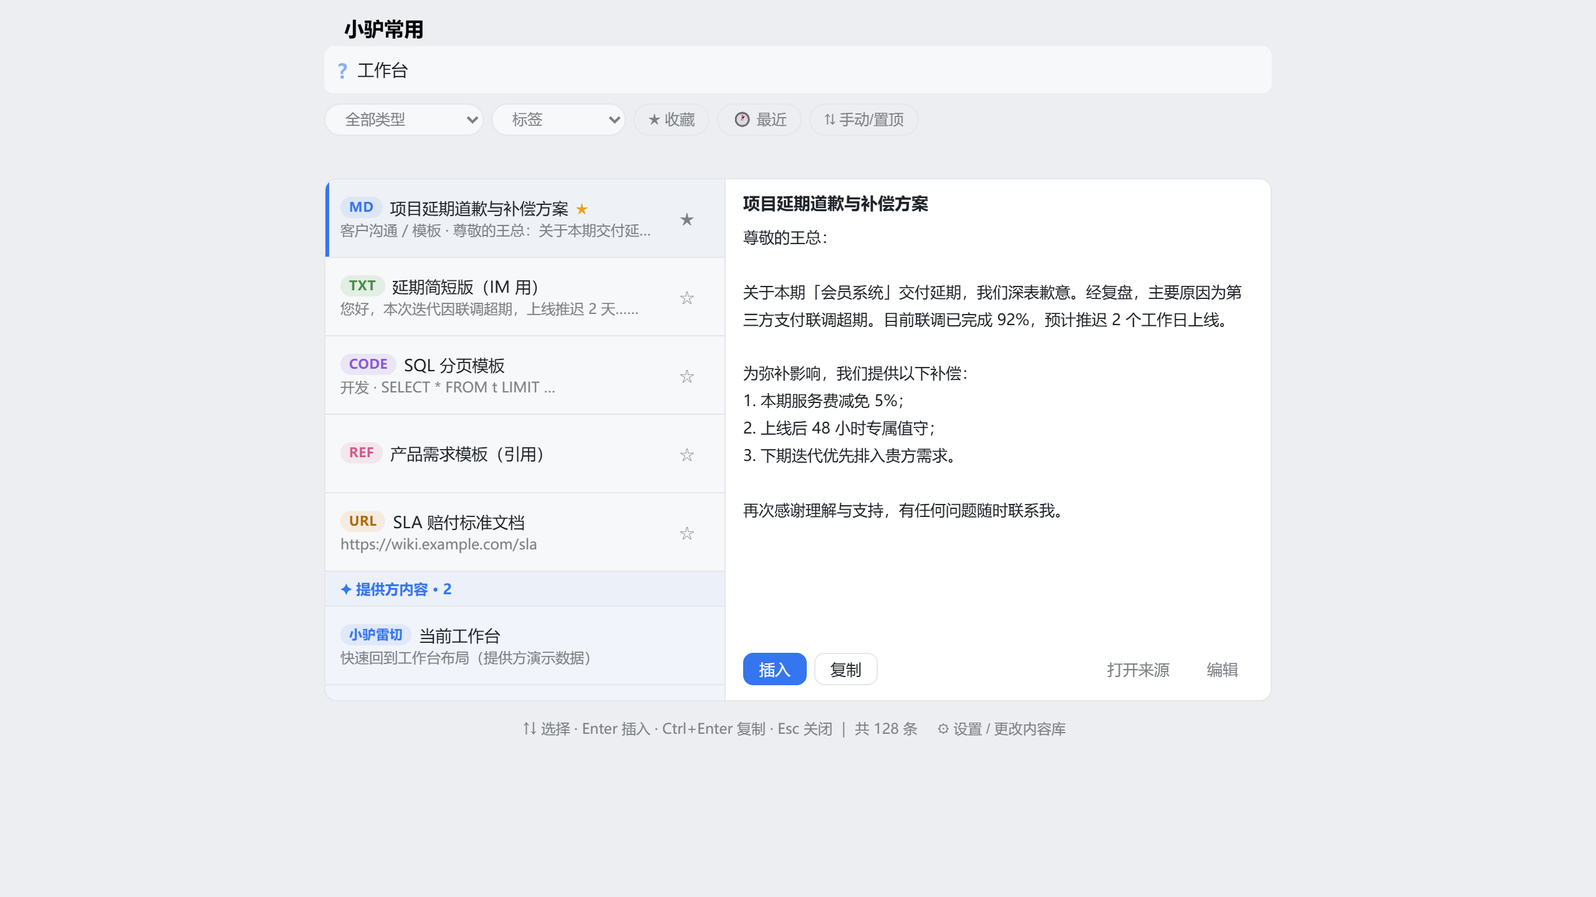
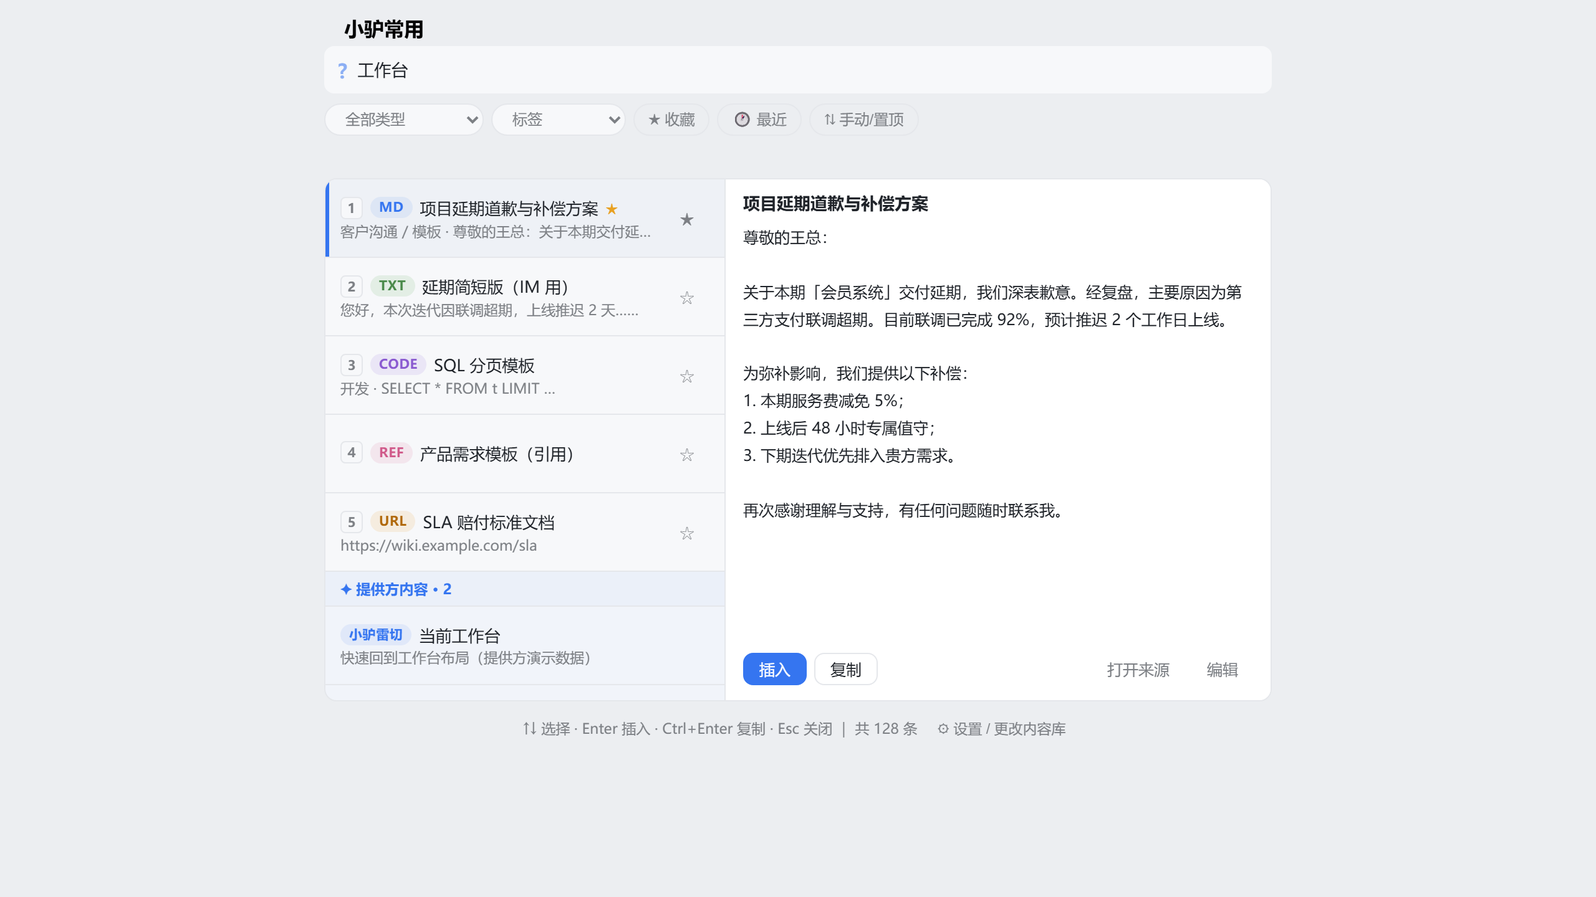
R10：生产 UI 冒烟门禁（13 项 DOM 断言+截图，test:ui）
- render-production.cjs：断言失败非零退出；覆盖双栏预览/徽标/失效警示/
  AI 横幅/序号角标/提供方分区/设置入口/窄容器单列
- 本地面评估落账：不依赖 B-001/B-002 的功能面已基本清空，转维护基调
- 测试 114/114

diff --git a/docs/design/harness.html b/docs/design/harness.html
@@ -24,7 +24,7 @@ body { margin: 0; background: #eceef1; }
 .b3-text-field { border: none; background: transparent; color: var(--b3-theme-on-background); outline: none; font-family: inherit; }
 .xlc-dialog { position: relative; }
 .xlc-dialog .xlc-menu { position: fixed; right: 180px; bottom: 120px; left: auto; width: 320px; }
-</style><style>.xlc-dialog{--xlc-radius: 10px;--xlc-badge-text: #4a8a4a;--xlc-badge-text-bg: rgba(94, 168, 94, .13);--xlc-badge-md: var(--b3-theme-primary);--xlc-badge-md-bg: rgba(53, 117, 240, .09);--xlc-badge-url: #b0680a;--xlc-badge-url-bg: rgba(232, 152, 45, .13);--xlc-badge-code: #8a5ad0;--xlc-badge-code-bg: rgba(150, 105, 224, .13);--xlc-badge-image: #3a9ab5;--xlc-badge-image-bg: rgba(80, 175, 200, .13);--xlc-badge-file: #8a8a93;--xlc-badge-file-bg: rgba(140, 140, 150, .14);--xlc-badge-ref: #d05a8a;--xlc-badge-ref-bg: rgba(220, 110, 155, .13);--xlc-badge-warn: #c2503a;--xlc-badge-warn-bg: rgba(226, 106, 80, .12);display:flex;flex-direction:column;height:100%;gap:8px;color:var(--b3-theme-on-background)}.xlc-dialog .xlc-top{display:flex}.xlc-dialog .xlc-search{flex:1;display:flex;align-items:center;gap:8px;background-color:var(--b3-theme-surface);border:1.5px solid rgba(0,0,0,0);border-radius:8px;padding:0 10px;height:36px}.xlc-dialog .xlc-search:focus-within{border-color:var(--b3-theme-primary);background-color:var(--b3-theme-background)}.xlc-dialog .xlc-search:focus-within .xlc-search-q{opacity:1}.xlc-dialog .xlc-search .xlc-search-q{color:var(--b3-theme-primary);font-weight:600;opacity:.55;user-select:none}.xlc-dialog .xlc-search .xlc-search-input{flex:1;border:none;background:rgba(0,0,0,0);box-shadow:none;padding:0;height:auto;font-size:13.5px}.xlc-dialog .xlc-filters{display:flex;gap:6px;align-items:center;flex-wrap:wrap}.xlc-dialog .xlc-filters .b3-select{max-width:128px;border-radius:999px;padding:2px 26px 2px 12px;height:26px;font-size:12px;color:var(--b3-theme-on-surface)}.xlc-dialog .xlc-chip{border:1px solid var(--b3-border-color);background:rgba(0,0,0,0);color:var(--b3-theme-on-surface);border-radius:999px;padding:2px 11px;font-size:12px;line-height:20px;min-height:26px;cursor:pointer}.xlc-dialog .xlc-chip:hover{border-color:var(--b3-theme-primary-light)}.xlc-dialog .xlc-chip--on{background-color:var(--b3-theme-primary-lighter);border-color:rgba(0,0,0,0);color:var(--b3-theme-primary);font-weight:600}.xlc-dialog .xlc-ai-banner{align-self:flex-start;border:1px dashed var(--b3-theme-primary-light);color:var(--b3-theme-primary);background-color:rgba(53,117,240,.07)}.xlc-dialog .xlc-doclist{display:flex;flex-direction:column;gap:2px;max-height:180px;overflow:auto}.xlc-dialog .xlc-doclist .xlc-doclist-item{text-align:left;border:none;background:rgba(0,0,0,0);color:var(--b3-theme-on-background);font-size:12.5px;padding:6px 10px;min-height:32px;border-radius:6px;cursor:pointer;overflow:hidden;text-overflow:ellipsis;white-space:nowrap}.xlc-dialog .xlc-doclist .xlc-doclist-item:hover{background-color:var(--b3-list-hover)}.xlc-dialog .xlc-doclist .xlc-doclist-item--on{background-color:var(--b3-theme-primary-lighter);color:var(--b3-theme-primary);font-weight:600}.xlc-dialog .xlc-doclist .xlc-doclist-empty{font-size:12px;color:var(--b3-theme-on-surface);padding:6px 10px}.xlc-dialog .xlc-status{min-height:18px;font-size:12px;color:var(--b3-theme-on-surface)}.xlc-dialog .xlc-body{flex:1;display:flex;min-height:0;border:1px solid var(--b3-border-color);border-radius:var(--xlc-radius);background-color:var(--b3-theme-surface);overflow:hidden}.xlc-dialog .xlc-list{width:320px;flex-shrink:0;overflow:auto;border-right:1px solid var(--b3-border-color)}.xlc-dialog .xlc-row{display:flex;align-items:center;gap:8px;padding:9px 12px;min-height:44px;cursor:pointer;border-bottom:1px solid var(--b3-border-color)}.xlc-dialog .xlc-row:last-child{border-bottom:none}.xlc-dialog .xlc-row:hover{background-color:var(--b3-list-hover)}.xlc-dialog .xlc-row--active{background-color:var(--b3-list-hover);box-shadow:inset 3px 0 0 var(--b3-theme-primary)}.xlc-dialog .xlc-row .xlc-row-main{flex:1;min-width:0}.xlc-dialog .xlc-row .xlc-row-title{display:flex;align-items:center;gap:6px;font-size:13px;font-weight:500;margin-bottom:2px;overflow:hidden}.xlc-dialog .xlc-row .xlc-row-titletext{overflow:hidden;text-overflow:ellipsis;white-space:nowrap;color:var(--b3-theme-on-background)}.xlc-dialog .xlc-row .xlc-row-favmark{color:#e8a020;font-size:12px;flex-shrink:0}.xlc-dialog .xlc-row .xlc-row-meta{font-size:11.5px;color:var(--b3-theme-on-surface);overflow:hidden;text-overflow:ellipsis;white-space:nowrap}.xlc-dialog .xlc-row .xlc-row-action{min-width:36px;min-height:36px;flex-shrink:0;border:none;background:rgba(0,0,0,0);color:var(--b3-theme-on-surface);font-size:14px}.xlc-dialog .xlc-badge{display:inline-block;font-size:10.5px;font-weight:600;padding:0 7px;border-radius:999px;line-height:17px;letter-spacing:.3px;flex-shrink:0}.xlc-dialog .xlc-badge--text{color:var(--xlc-badge-text);background-color:var(--xlc-badge-text-bg)}.xlc-dialog .xlc-badge--markdown{color:var(--xlc-badge-md);background-color:var(--xlc-badge-md-bg)}.xlc-dialog .xlc-badge--url{color:var(--xlc-badge-url);background-color:var(--xlc-badge-url-bg)}.xlc-dialog .xlc-badge--code{color:var(--xlc-badge-code);background-color:var(--xlc-badge-code-bg)}.xlc-dialog .xlc-badge--image{color:var(--xlc-badge-image);background-color:var(--xlc-badge-image-bg)}.xlc-dialog .xlc-badge--asset{color:var(--xlc-badge-file);background-color:var(--xlc-badge-file-bg)}.xlc-dialog .xlc-badge--blockref{color:var(--xlc-badge-ref);background-color:var(--xlc-badge-ref-bg)}.xlc-dialog .xlc-badge--structure{color:var(--xlc-badge-md);background-color:var(--xlc-badge-md-bg)}.xlc-dialog .xlc-badge--warn{color:var(--xlc-badge-warn);background-color:var(--xlc-badge-warn-bg)}.xlc-dialog .xlc-badge--ai{color:var(--b3-theme-primary);background-color:rgba(53,117,240,.09)}.xlc-dialog .xlc-pane{flex:1;display:flex;flex-direction:column;min-width:0;background-color:var(--b3-theme-background)}.xlc-dialog .xlc-pane-head{display:flex;align-items:center;gap:8px;padding:10px 14px 4px}.xlc-dialog .xlc-pane-head .xlc-pane-title{font-weight:600;font-size:13.5px;overflow:hidden;text-overflow:ellipsis;white-space:nowrap}.xlc-dialog .xlc-pane-warn{margin:4px 14px 6px;padding:6px 10px;border-radius:6px;font-size:12px;color:var(--xlc-badge-warn);background-color:var(--xlc-badge-warn-bg)}.xlc-dialog .xlc-pane-body{flex:1;overflow:auto;padding:4px 14px;font-size:12.5px;line-height:1.75;white-space:pre-wrap;word-break:break-word;color:var(--b3-theme-on-background)}.xlc-dialog .xlc-pane-foot{display:flex;gap:6px;padding:8px 14px 12px;flex-wrap:wrap}.xlc-dialog .xlc-pane-foot .xlc-foot-spacer{flex:1}.xlc-dialog .xlc-pane-foot .xlc-btn-primary{background-color:var(--b3-theme-primary);border-color:var(--b3-theme-primary);color:var(--b3-theme-on-primary)}.xlc-dialog .xlc-pane-foot .xlc-btn-ghost{border:none;background:rgba(0,0,0,0);color:var(--b3-theme-on-surface)}.xlc-dialog .xlc-provider-header{padding:6px 12px;font-size:11.5px;font-weight:600;color:var(--b3-theme-primary);background-color:rgba(53,117,240,.06);border-bottom:1px solid var(--b3-border-color);position:sticky;top:0}.xlc-dialog .xlc-row--provider{background-color:rgba(53,117,240,.03)}.xlc-dialog .xlc-footer{font-size:11.5px;color:var(--b3-theme-on-surface);text-align:center;display:flex;align-items:center;justify-content:center;gap:10px}.xlc-dialog .xlc-footer .xlc-footer-gear{border:none;background:rgba(0,0,0,0);color:var(--b3-theme-on-surface);font-size:11.5px;padding:2px 6px;min-height:26px}.xlc-dialog .xlc-menu{position:absolute;inset:auto 16px 16px 16px;z-index:10;display:flex;flex-direction:column;background-color:var(--b3-menu-background);border:1px solid var(--b3-border-color);border-radius:12px;box-shadow:var(--b3-dialog-shadow);overflow:auto;max-height:72%}.xlc-dialog .xlc-menu .xlc-menu-lbl{font-size:11px;color:var(--b3-theme-on-surface);padding:10px 12px 2px}.xlc-dialog .xlc-menu .xlc-menu-preview{margin:8px;padding:8px 10px;max-height:150px;overflow:auto;font-size:12px;line-height:1.7;font-family:inherit;color:var(--b3-theme-on-background);background-color:var(--b3-theme-surface);border:1px solid var(--b3-border-color);border-radius:8px;white-space:pre-wrap;word-break:break-all}.xlc-dialog .xlc-menu .xlc-menu-sec{padding:4px 8px 6px;border-bottom:1px solid var(--b3-border-color);display:flex;flex-wrap:wrap;gap:2px}.xlc-dialog .xlc-menu .xlc-menu-sec:last-child{border-bottom:none}.xlc-dialog .xlc-menu .xlc-menu-sec--ai{background-color:rgba(53,117,240,.04)}.xlc-dialog .xlc-menu .xlc-menu-item{text-align:left;min-height:36px;width:100%;background:rgba(0,0,0,0);border:none;border-radius:7px;color:var(--b3-theme-on-background);padding:6px 10px;font-size:13px;cursor:pointer}.xlc-dialog .xlc-menu .xlc-menu-item:hover{background-color:var(--b3-list-hover)}.xlc-dialog .xlc-menu .xlc-menu-item--ai{color:var(--b3-theme-primary)}@media(max-width: 620px){.xlc-dialog:not(.xlc-dialog--mobile) .xlc-list{width:100%;border-right:none}.xlc-dialog:not(.xlc-dialog--mobile) .xlc-pane{display:none}}.xlc-dialog--mobile .xlc-menu{inset:auto 0 0 0;border-radius:16px 16px 0 0;padding-bottom:env(safe-area-inset-bottom, 0);max-height:78%}.xlc-dialog--mobile .xlc-body{border:none;background:rgba(0,0,0,0)}.xlc-dialog--mobile .xlc-list{width:100%;border-right:none;border:1px solid var(--b3-border-color);border-radius:var(--xlc-radius)}.b3-dialog__container.xlc-sheet{position:fixed;left:0;right:0;bottom:0;top:auto !important;margin-bottom:0;border-radius:16px 16px 0 0;transform:none !important;padding-bottom:env(safe-area-inset-bottom, 0)}.xlc-form{display:flex;flex-direction:column;gap:10px}.xlc-form .xlc-form-field{display:flex;flex-direction:column;gap:4px}.xlc-form .xlc-form-field .xlc-form-label{font-size:12px;color:var(--b3-theme-on-surface)}.xlc-form .xlc-form-field .xlc-form-label .xlc-form-ai{color:var(--b3-theme-primary);cursor:pointer;border:none;background:rgba(0,0,0,0);font-size:12px;padding:0 0 0 6px}.xlc-form .xlc-form-field .xlc-form-label .xlc-form-ai:hover{text-decoration:underline}.xlc-form .xlc-form-field .xlc-form-hint{font-size:11px;color:var(--b3-theme-on-surface)}.xlc-form .xlc-sugrow{display:flex;gap:6px;align-items:center;font-size:12px;color:var(--b3-theme-primary);background-color:rgba(53,117,240,.07);border:1px dashed var(--b3-theme-primary-light);border-radius:8px;padding:6px 10px}.xlc-form .xlc-sugrow .xlc-sugrow-adopt{margin-left:auto;border:1px solid var(--b3-theme-primary-light);color:var(--b3-theme-primary);background:rgba(0,0,0,0);border-radius:6px;padding:2px 10px;font-size:12px;cursor:pointer}.xlc-form .xlc-form-actions{display:flex;justify-content:flex-end;gap:8px}.xlc-setting-row{display:flex;align-items:flex-start;gap:8px;font-size:12.5px;color:var(--b3-theme-on-background)}.xlc-setting-row input[type=checkbox]{margin-top:2px;flex-shrink:0}
+</style><style>.xlc-dialog{--xlc-radius: 10px;--xlc-badge-text: #4a8a4a;--xlc-badge-text-bg: rgba(94, 168, 94, .13);--xlc-badge-md: var(--b3-theme-primary);--xlc-badge-md-bg: rgba(53, 117, 240, .09);--xlc-badge-url: #b0680a;--xlc-badge-url-bg: rgba(232, 152, 45, .13);--xlc-badge-code: #8a5ad0;--xlc-badge-code-bg: rgba(150, 105, 224, .13);--xlc-badge-image: #3a9ab5;--xlc-badge-image-bg: rgba(80, 175, 200, .13);--xlc-badge-file: #8a8a93;--xlc-badge-file-bg: rgba(140, 140, 150, .14);--xlc-badge-ref: #d05a8a;--xlc-badge-ref-bg: rgba(220, 110, 155, .13);--xlc-badge-warn: #c2503a;--xlc-badge-warn-bg: rgba(226, 106, 80, .12);display:flex;flex-direction:column;height:100%;gap:8px;color:var(--b3-theme-on-background)}.xlc-dialog .xlc-top{display:flex}.xlc-dialog .xlc-search{flex:1;display:flex;align-items:center;gap:8px;background-color:var(--b3-theme-surface);border:1.5px solid rgba(0,0,0,0);border-radius:8px;padding:0 10px;height:36px}.xlc-dialog .xlc-search:focus-within{border-color:var(--b3-theme-primary);background-color:var(--b3-theme-background)}.xlc-dialog .xlc-search:focus-within .xlc-search-q{opacity:1}.xlc-dialog .xlc-search .xlc-search-q{color:var(--b3-theme-primary);font-weight:600;opacity:.55;user-select:none}.xlc-dialog .xlc-search .xlc-search-input{flex:1;border:none;background:rgba(0,0,0,0);box-shadow:none;padding:0;height:auto;font-size:13.5px}.xlc-dialog .xlc-filters{display:flex;gap:6px;align-items:center;flex-wrap:wrap}.xlc-dialog .xlc-filters .b3-select{max-width:128px;border-radius:999px;padding:2px 26px 2px 12px;height:26px;font-size:12px;color:var(--b3-theme-on-surface)}.xlc-dialog .xlc-chip{border:1px solid var(--b3-border-color);background:rgba(0,0,0,0);color:var(--b3-theme-on-surface);border-radius:999px;padding:2px 11px;font-size:12px;line-height:20px;min-height:26px;cursor:pointer}.xlc-dialog .xlc-chip:hover{border-color:var(--b3-theme-primary-light)}.xlc-dialog .xlc-chip--on{background-color:var(--b3-theme-primary-lighter);border-color:rgba(0,0,0,0);color:var(--b3-theme-primary);font-weight:600}.xlc-dialog .xlc-ai-banner{align-self:flex-start;border:1px dashed var(--b3-theme-primary-light);color:var(--b3-theme-primary);background-color:rgba(53,117,240,.07)}.xlc-dialog .xlc-doclist{display:flex;flex-direction:column;gap:2px;max-height:180px;overflow:auto}.xlc-dialog .xlc-doclist .xlc-doclist-item{text-align:left;border:none;background:rgba(0,0,0,0);color:var(--b3-theme-on-background);font-size:12.5px;padding:6px 10px;min-height:32px;border-radius:6px;cursor:pointer;overflow:hidden;text-overflow:ellipsis;white-space:nowrap}.xlc-dialog .xlc-doclist .xlc-doclist-item:hover{background-color:var(--b3-list-hover)}.xlc-dialog .xlc-doclist .xlc-doclist-item--on{background-color:var(--b3-theme-primary-lighter);color:var(--b3-theme-primary);font-weight:600}.xlc-dialog .xlc-doclist .xlc-doclist-empty{font-size:12px;color:var(--b3-theme-on-surface);padding:6px 10px}.xlc-dialog .xlc-status{min-height:18px;font-size:12px;color:var(--b3-theme-on-surface)}.xlc-dialog .xlc-body{flex:1;display:flex;min-height:0;border:1px solid var(--b3-border-color);border-radius:var(--xlc-radius);background-color:var(--b3-theme-surface);overflow:hidden}.xlc-dialog .xlc-list{width:320px;flex-shrink:0;overflow:auto;border-right:1px solid var(--b3-border-color)}.xlc-dialog .xlc-row{display:flex;align-items:center;gap:8px;padding:9px 12px;min-height:44px;cursor:pointer;border-bottom:1px solid var(--b3-border-color)}.xlc-dialog .xlc-row:last-child{border-bottom:none}.xlc-dialog .xlc-row:hover{background-color:var(--b3-list-hover)}.xlc-dialog .xlc-row--active{background-color:var(--b3-list-hover);box-shadow:inset 3px 0 0 var(--b3-theme-primary)}.xlc-dialog .xlc-row .xlc-row-main{flex:1;min-width:0}.xlc-dialog .xlc-row .xlc-row-title{display:flex;align-items:center;gap:6px;font-size:13px;font-weight:500;margin-bottom:2px;overflow:hidden}.xlc-dialog .xlc-row .xlc-row-titletext{overflow:hidden;text-overflow:ellipsis;white-space:nowrap;color:var(--b3-theme-on-background)}.xlc-dialog .xlc-row .xlc-row-favmark{color:#e8a020;font-size:12px;flex-shrink:0}.xlc-dialog .xlc-row .xlc-row-ordinal{display:inline-flex;align-items:center;justify-content:center;width:16px;height:16px;border-radius:4px;font-size:10.5px;font-weight:600;color:var(--b3-theme-on-surface);background-color:var(--b3-theme-surface);border:1px solid var(--b3-border-color);flex-shrink:0}.xlc-dialog .xlc-row .xlc-row-meta{font-size:11.5px;color:var(--b3-theme-on-surface);overflow:hidden;text-overflow:ellipsis;white-space:nowrap}.xlc-dialog .xlc-row .xlc-row-action{min-width:36px;min-height:36px;flex-shrink:0;border:none;background:rgba(0,0,0,0);color:var(--b3-theme-on-surface);font-size:14px}.xlc-dialog .xlc-badge{display:inline-block;font-size:10.5px;font-weight:600;padding:0 7px;border-radius:999px;line-height:17px;letter-spacing:.3px;flex-shrink:0}.xlc-dialog .xlc-badge--text{color:var(--xlc-badge-text);background-color:var(--xlc-badge-text-bg)}.xlc-dialog .xlc-badge--markdown{color:var(--xlc-badge-md);background-color:var(--xlc-badge-md-bg)}.xlc-dialog .xlc-badge--url{color:var(--xlc-badge-url);background-color:var(--xlc-badge-url-bg)}.xlc-dialog .xlc-badge--code{color:var(--xlc-badge-code);background-color:var(--xlc-badge-code-bg)}.xlc-dialog .xlc-badge--image{color:var(--xlc-badge-image);background-color:var(--xlc-badge-image-bg)}.xlc-dialog .xlc-badge--asset{color:var(--xlc-badge-file);background-color:var(--xlc-badge-file-bg)}.xlc-dialog .xlc-badge--blockref{color:var(--xlc-badge-ref);background-color:var(--xlc-badge-ref-bg)}.xlc-dialog .xlc-badge--structure{color:var(--xlc-badge-md);background-color:var(--xlc-badge-md-bg)}.xlc-dialog .xlc-badge--warn{color:var(--xlc-badge-warn);background-color:var(--xlc-badge-warn-bg)}.xlc-dialog .xlc-badge--ai{color:var(--b3-theme-primary);background-color:rgba(53,117,240,.09)}.xlc-dialog .xlc-pane{flex:1;display:flex;flex-direction:column;min-width:0;background-color:var(--b3-theme-background)}.xlc-dialog .xlc-pane-head{display:flex;align-items:center;gap:8px;padding:10px 14px 4px}.xlc-dialog .xlc-pane-head .xlc-pane-title{font-weight:600;font-size:13.5px;overflow:hidden;text-overflow:ellipsis;white-space:nowrap}.xlc-dialog .xlc-pane-warn{margin:4px 14px 6px;padding:6px 10px;border-radius:6px;font-size:12px;color:var(--xlc-badge-warn);background-color:var(--xlc-badge-warn-bg)}.xlc-dialog .xlc-pane-body{flex:1;overflow:auto;padding:4px 14px;font-size:12.5px;line-height:1.75;white-space:pre-wrap;word-break:break-word;color:var(--b3-theme-on-background)}.xlc-dialog .xlc-pane-foot{display:flex;gap:6px;padding:8px 14px 12px;flex-wrap:wrap}.xlc-dialog .xlc-pane-foot .xlc-foot-spacer{flex:1}.xlc-dialog .xlc-pane-foot .xlc-btn-primary{background-color:var(--b3-theme-primary);border-color:var(--b3-theme-primary);color:var(--b3-theme-on-primary)}.xlc-dialog .xlc-pane-foot .xlc-btn-ghost{border:none;background:rgba(0,0,0,0);color:var(--b3-theme-on-surface)}.xlc-dialog .xlc-provider-header{padding:6px 12px;font-size:11.5px;font-weight:600;color:var(--b3-theme-primary);background-color:rgba(53,117,240,.06);border-bottom:1px solid var(--b3-border-color);position:sticky;top:0}.xlc-dialog .xlc-row--provider{background-color:rgba(53,117,240,.03)}.xlc-dialog .xlc-footer{font-size:11.5px;color:var(--b3-theme-on-surface);text-align:center;display:flex;align-items:center;justify-content:center;gap:10px}.xlc-dialog .xlc-footer .xlc-footer-gear{border:none;background:rgba(0,0,0,0);color:var(--b3-theme-on-surface);font-size:11.5px;padding:2px 6px;min-height:26px}.xlc-dialog .xlc-menu{position:absolute;inset:auto 16px 16px 16px;z-index:10;display:flex;flex-direction:column;background-color:var(--b3-menu-background);border:1px solid var(--b3-border-color);border-radius:12px;box-shadow:var(--b3-dialog-shadow);overflow:auto;max-height:72%}.xlc-dialog .xlc-menu .xlc-menu-lbl{font-size:11px;color:var(--b3-theme-on-surface);padding:10px 12px 2px}.xlc-dialog .xlc-menu .xlc-menu-preview{margin:8px;padding:8px 10px;max-height:150px;overflow:auto;font-size:12px;line-height:1.7;font-family:inherit;color:var(--b3-theme-on-background);background-color:var(--b3-theme-surface);border:1px solid var(--b3-border-color);border-radius:8px;white-space:pre-wrap;word-break:break-all}.xlc-dialog .xlc-menu .xlc-menu-sec{padding:4px 8px 6px;border-bottom:1px solid var(--b3-border-color);display:flex;flex-wrap:wrap;gap:2px}.xlc-dialog .xlc-menu .xlc-menu-sec:last-child{border-bottom:none}.xlc-dialog .xlc-menu .xlc-menu-sec--ai{background-color:rgba(53,117,240,.04)}.xlc-dialog .xlc-menu .xlc-menu-item{text-align:left;min-height:36px;width:100%;background:rgba(0,0,0,0);border:none;border-radius:7px;color:var(--b3-theme-on-background);padding:6px 10px;font-size:13px;cursor:pointer}.xlc-dialog .xlc-menu .xlc-menu-item:hover{background-color:var(--b3-list-hover)}.xlc-dialog .xlc-menu .xlc-menu-item--ai{color:var(--b3-theme-primary)}@media(max-width: 620px){.xlc-dialog:not(.xlc-dialog--mobile) .xlc-list{width:100%;border-right:none}.xlc-dialog:not(.xlc-dialog--mobile) .xlc-pane{display:none}}.xlc-dialog--mobile .xlc-menu{inset:auto 0 0 0;border-radius:16px 16px 0 0;padding-bottom:env(safe-area-inset-bottom, 0);max-height:78%}.xlc-dialog--mobile .xlc-body{border:none;background:rgba(0,0,0,0)}.xlc-dialog--mobile .xlc-list{width:100%;border-right:none;border:1px solid var(--b3-border-color);border-radius:var(--xlc-radius)}.b3-dialog__container.xlc-sheet{position:fixed;left:0;right:0;bottom:0;top:auto !important;margin-bottom:0;border-radius:16px 16px 0 0;transform:none !important;padding-bottom:env(safe-area-inset-bottom, 0)}.xlc-form{display:flex;flex-direction:column;gap:10px}.xlc-form .xlc-form-field{display:flex;flex-direction:column;gap:4px}.xlc-form .xlc-form-field .xlc-form-label{font-size:12px;color:var(--b3-theme-on-surface)}.xlc-form .xlc-form-field .xlc-form-label .xlc-form-ai{color:var(--b3-theme-primary);cursor:pointer;border:none;background:rgba(0,0,0,0);font-size:12px;padding:0 0 0 6px}.xlc-form .xlc-form-field .xlc-form-label .xlc-form-ai:hover{text-decoration:underline}.xlc-form .xlc-form-field .xlc-form-hint{font-size:11px;color:var(--b3-theme-on-surface)}.xlc-form .xlc-sugrow{display:flex;gap:6px;align-items:center;font-size:12px;color:var(--b3-theme-primary);background-color:rgba(53,117,240,.07);border:1px dashed var(--b3-theme-primary-light);border-radius:8px;padding:6px 10px}.xlc-form .xlc-sugrow .xlc-sugrow-adopt{margin-left:auto;border:1px solid var(--b3-theme-primary-light);color:var(--b3-theme-primary);background:rgba(0,0,0,0);border-radius:6px;padding:2px 10px;font-size:12px;cursor:pointer}.xlc-form .xlc-form-actions{display:flex;justify-content:flex-end;gap:8px}.xlc-setting-row{display:flex;align-items:flex-start;gap:8px;font-size:12.5px;color:var(--b3-theme-on-background)}.xlc-setting-row input[type=checkbox]{margin-top:2px;flex-shrink:0}
 </style></head>
 <body><div class="b3-scope light" id="stage"></div>
 <script src="harness-bundle.js"></script></body></html>

diff --git a/docs/design/harness-bundle.js b/docs/design/harness-bundle.js
@@ -517,6 +517,13 @@
         main.className = "xlc-row-main";
         const title = document.createElement("div");
         title.className = "xlc-row-title";
+        if (i < 9) {
+          const ordinal = document.createElement("span");
+          ordinal.className = "xlc-row-ordinal";
+          ordinal.textContent = String(i + 1);
+          ordinal.title = this.deps.t("usageHint");
+          title.appendChild(ordinal);
+        }
         const badge = document.createElement("span");
         badge.className = `xlc-badge xlc-badge--${entry.itemType}`;
         badge.textContent = (_a = TYPE_BADGES[entry.itemType]) != null ? _a : "TXT";
@@ -900,6 +907,13 @@
       } else if (e.key === "Escape") {
         e.preventDefault();
         this.destroy();
+      } else if (e.altKey && !e.ctrlKey && !e.metaKey && /^[1-9]$/.test(e.key)) {
+        e.preventDefault();
+        const idx = Number(e.key) - 1;
+        const entry = this.results[idx];
+        if (entry) {
+          await this.runPrimary(entry);
+        }
       }
     }
     destroy() {

diff --git a/docs/dev-plan-2026-10-06.md b/docs/dev-plan-2026-10-06.md
@@ -183,6 +183,17 @@
 
 - 搜索弹窗键盘链路新增 Alt+数字 → 插入对应行（Quicker/雷切同款）；前 9 行显示序号角标；usageHint 更新。
 
+## R10 轮（2026-10-06 第十轮，质量基础设施）
+
+### R10-T1 生产 UI 冒烟门禁 | 完成
+
+- render-production.cjs 升级：截图+13 项 DOM 断言一体（双栏预览/徽标/失效警示/AI 横幅/序号角标/提供方分区/footer 设置入口/窄容器单列），失败即非零退出；pnpm run test:ui 入口。首个自动化 UI 回归门禁（真实 dist DOM+CSS）。
+
+## 本地开发面评估（诚实结论）
+
+- 十轮后，**不依赖 B-001/B-002 的本地功能/性能/UI 面已基本清空**：剩余项（设置拆分、Markdown+资源导出、provider 键盘导航）均为低收益重构或需新依赖决策，已记录不自动开工。
+- 下一步主线 = B-001/B-002 解除后的真实宿主验收；在此之前转入维护基调（上游契约跟进、回归修复）。
+
 ## 待决断/后续
 
 - B-001 解除后：P1 宿主写路径 E2E（建库/建条目/属性回读/失效检测/删除）→ 桌面验收矩阵 → 修真实行为偏差。

diff --git a/README.md b/README.md
@@ -98,7 +98,7 @@ pnpm run check   # tsc --noEmit
 pnpm test        # esbuild 转译 + node --test（114 项）
 pnpm run build   # dist/ + package.zip
 node scripts/render-prototype.cjs    # 原型图截图（需 Playwright Chromium）
-node scripts/render-production.cjs   # 生产 UI 效果截图（真实 dist CSS+DOM）
+pnpm run test:ui                # 生产 UI 冒烟门禁（13 项 DOM 断言 + 截图，需 Playwright Chromium）
 ```
 
 系列协议见 [AGENTS.md](AGENTS.md)；路线见 [ROADMAP.md](ROADMAP.md)；阻塞见 [BLOCKERS.md](BLOCKERS.md)；取舍见 [docs/adr/](docs/adr/)；宿主 API 能力矩阵见 [docs/host-contract.md](docs/host-contract.md)。
